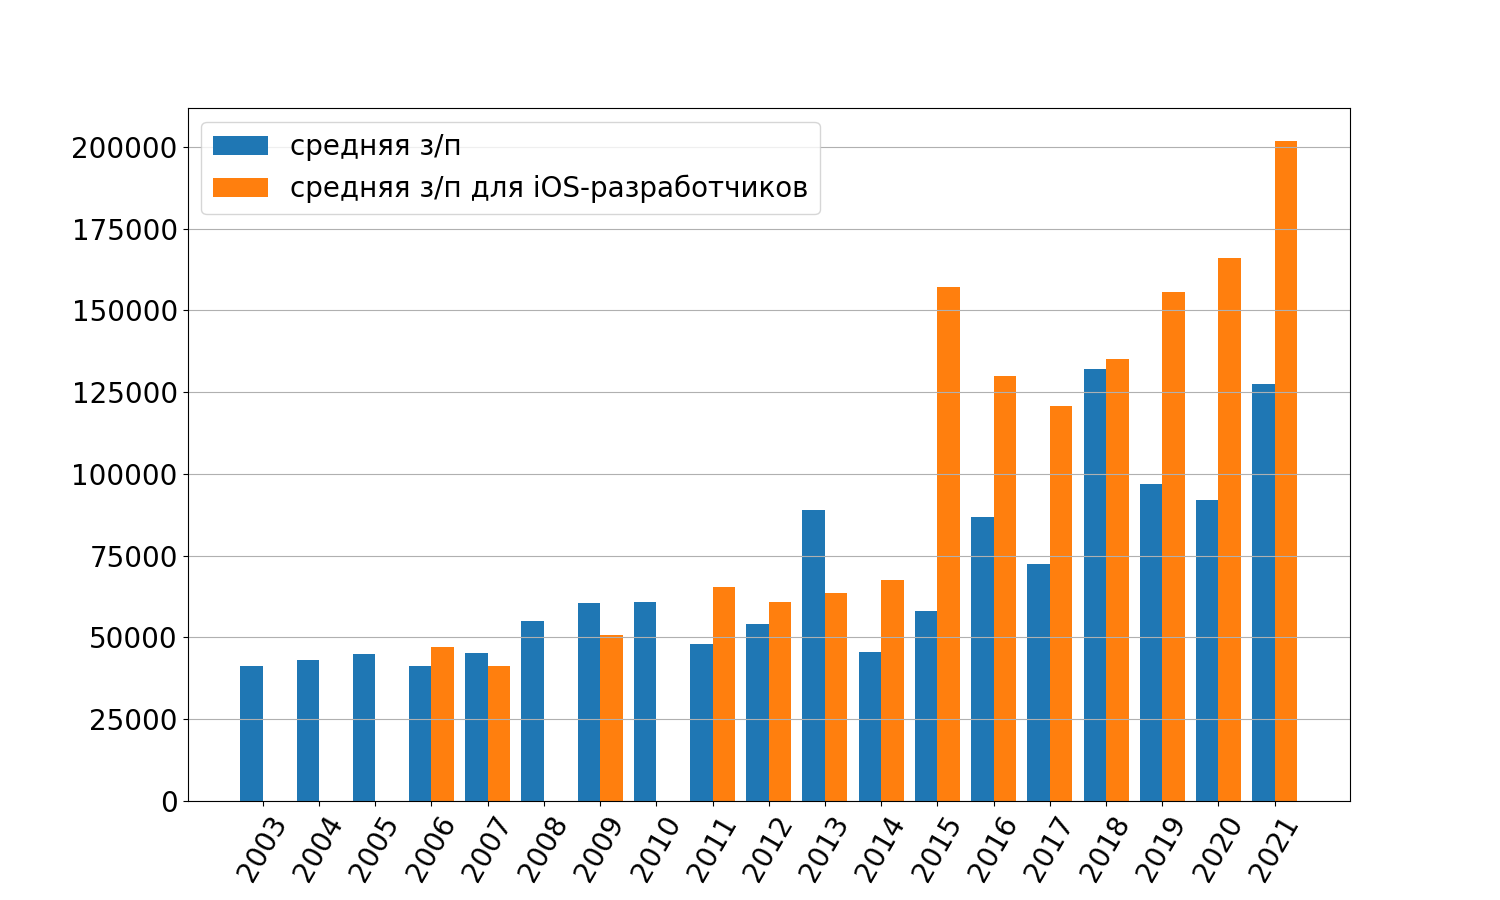
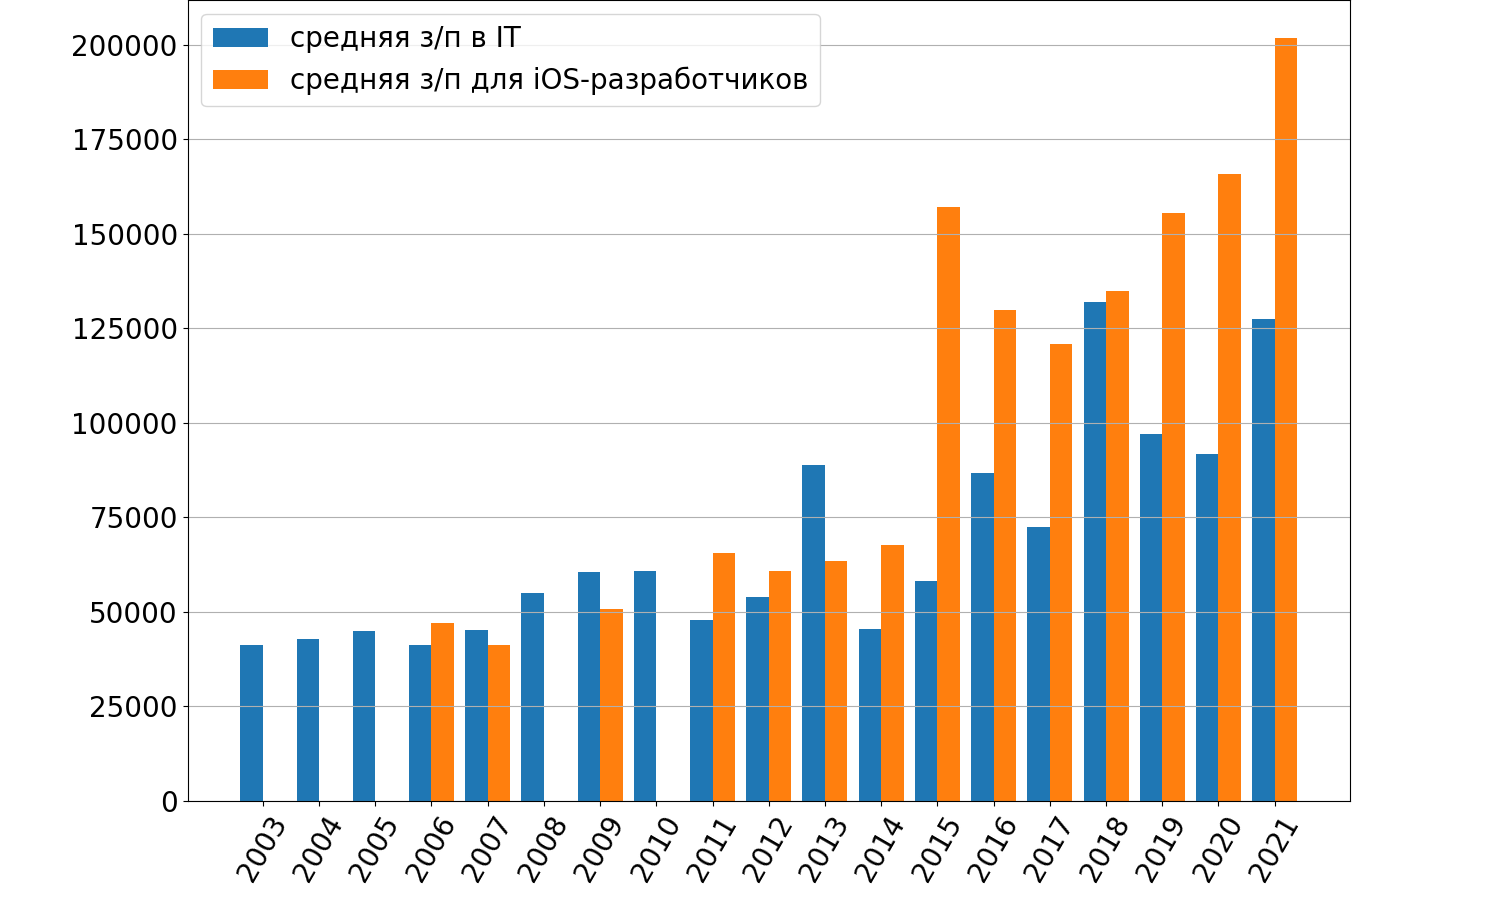
Skills statistics

diff --git a/templates/demand.html b/templates/demand.html
@@ -1,15 +1,69 @@
 {% extends 'base.html' %}
 
+{% load static %}
+
 {% block title %}
     Востребованность
 {% endblock %}
 
 {% block body %}
-    <div class="lead">
-        <h1>Востребованность</h1>
+    <div class="lead mb-4 pb-5 border-bottom">
+        <h1 class="mt-5 mb-4">Востребованность</h1>
         <p>
             Здесь собрана статистика вакансий по годам из HeadHunter,
             как в целом для IT-профессий, так и отдельно для iOS-разработчиков.
         </p>
     </div>
+
+    <div class="d-flex justify-content-center gap-2 mb-5">
+        <button class="btn btn-primary plots" style="width: 150px !important;">Графики</button>
+        <button class="btn btn-secondary tables" style="width: 150px !important;">Таблицы</button>
+    </div>
+
+    <div class="plots">
+        <ul class="list-group" style="margin: 0 !important; padding: 0 !important; list-style: none !important;">
+            <li class="list-item mb-5 pb-5">
+                <h2 class="mb-5 text-center">Зарплаты</h2>
+                <div class="row mb-4">
+                    <div class="w-50 d-flex flex-column justify-content-between text-center">
+                        <h3 class="mb-4">Уровень зарплаты по годам</h3>
+                        <img src="{% static "plots/salary_by_year.png" %}" alt="Зарплата по годам" class="w-100">
+                    </div>
+                    <div class="w-50 d-flex flex-column justify-content-between text-center">
+                        <h3 class="mb-4">Уровень зарплаты по годам для iOS-разработчика</h3>
+                        <img src="{% static "plots/selected_salary_by_year.png" %}"
+                             alt="Зарплата по годам для iOS-разработчика" class="w-100">
+                    </div>
+                </div>
+                <div class="row d-flex flex-column align-items-center justify-content-between text-center">
+                    <h3 class="mb-4">Сравнение зарплат</h3>
+                    <img src="{% static "plots/diff_salary.png" %}" alt="Сравнение" class="w-75 mr-auto ml-auto">
+                </div>
+            </li>
+            <li class="list-item mb-5">
+                <h2 class="mb-5 text-center">Количество вакансий</h2>
+                <div class="row mb-4">
+                    <div class="w-50 d-flex flex-column justify-content-between text-center">
+                        <h3 class="mb-4">Количество вакансий по годам</h3>
+                        <img src="{% static "plots/count_by_year.png" %}" alt="Количество вакансий по годам" class="w-100">
+                    </div>
+                    <div class="w-50 d-flex flex-column justify-content-between text-center">
+                        <h3 class="mb-4">Количество вакансий по годам для iOS-разработчика</h3>
+                        <img src="{% static "plots/selected_count_by_year.png" %}"
+                             alt="Количество вакансий по годам для iOS-разработчика" class="w-100">
+                    </div>
+                </div>
+                <div class="row d-flex flex-column justify-content-between align-items-center text-center">
+                    <h3 class="mb-4">Сравнение количества</h3>
+                    <img src="{% static "plots/diff_count.png" %}" alt="Сравнение" class="w-75">
+                </div>
+            </li>
+        </ul>
+    </div>
+
+    <div class="tables">
+
+    </div>
+
+    <script src="{% static "scripts/demand.js" %}"></script>
 {% endblock %}

diff --git a/main_app/static/scripts/demand.js b/main_app/static/scripts/demand.js
@@ -1,0 +1,30 @@
+let plots_btn = document.querySelector('.btn.plots');
+let tables_btn = document.querySelector('.btn.tables');
+let plots = document.querySelector('div.plots');
+let tables = document.querySelector('div.tables');
+
+plots_btn.onclick = function () {
+    if (!plots_btn.classList.contains('btn-primary')){
+        plots_btn.classList.add('btn-primary')
+        plots_btn.classList.remove('btn-secondary')
+
+        tables_btn.classList.remove('btn-primary');
+        tables_btn.classList.add('btn-secondary');
+
+        plots.classList.remove('d-none');
+        tables.classList.add('d-none');
+    }
+}
+
+tables_btn.onclick = function () {
+    if (!tables_btn.classList.contains('btn-primary')){
+        tables_btn.classList.add('btn-primary');
+        tables_btn.classList.remove('btn-secondary');
+
+        plots_btn.classList.remove('btn-primary')
+        plots_btn.classList.add('btn-secondary')
+
+        plots.classList.add('d-none');
+        tables.classList.remove('d-none');
+    }
+}

diff --git a/templates/base.html b/templates/base.html
@@ -18,7 +18,6 @@
         <a href="/" class="d-flex align-items-center text-dark text-decoration-none">
             <span class="fs-4">Mellonka company</span>
         </a>
-
         <nav class="d-inline-flex flex-wrap mt-2 mt-md-0 ms-md-auto">
             <a class="me-3 py-2 text-dark text-decoration-none" href="/">Главная</a>
             <a class="me-3 py-2 text-dark text-decoration-none" href="/geography">География</a>
@@ -34,7 +33,7 @@
 </div>
 <footer class="my-md-5 pt-md-4">
     <div class="border-top container">
-        <p class="mt-3 text-center text-muted">© 2023, Mellonka company</p>
+        <p class="mt-3 text-center text-muted">© 2023, <b>Mellonka company</b>, Шамшиев Эрланбек Батырбекович, РИ-210940</p>
     </div>
 </footer>
 </body>

diff --git a/main_app/statistics/statistics.py b/main_app/statistics/statistics.py
@@ -7,16 +7,23 @@ import tkinter
 def save_df_as_plot(df, path, x_key, y_key):
     plt.rc('font', size=20)
     fig = plt.figure()
-    fig.set_figheight(9)
-    fig.set_figwidth(9)
-    ax1 = fig.add_subplot(1, 1, 1)
-    ax1.grid(axis='y')
-    ax1.bar(df[x_key], df[y_key])
-    ax1.tick_params(axis='x', labelrotation=45)
+    plt.subplots_adjust(top=1)
+    fig.set_figheight(12)
+    fig.set_figwidth(12)
+    ax = fig.add_subplot(1, 1, 1)
+    ax.grid(axis='y')
+    ax.bar(df[x_key], df[y_key])
+    ax.tick_params(axis='x', labelrotation=45)
+
+    # увидел на каком то сайте просто. другого способа пока не нашёл
+    for label in ax.get_xticklabels():
+        if x_key != 'Year':
+            label.set_fontsize(12)
+
     fig.savefig(path)
 
 
-def save_plots(salary_by_year, selected_salary_by_year):
+def save_plots(bigger_df, smaller_df, general_column, column_bigger_df, column_smaller_df, path, legend=None):
     plt.rc('font', size=20)
     fig = plt.figure()
     fig.set_figheight(9)
@@ -24,18 +31,19 @@ def save_plots(salary_by_year, selected_salary_by_year):
     ax = fig.add_subplot(1, 1, 1)
 
     d = {k: v for k, v in
-         zip(selected_salary_by_year['Year'].to_list(), selected_salary_by_year['avg_salary_for_selected'].to_list())}
-    y2 = [d[k] if k in d else 0 for k in salary_by_year['Year'].to_list()]
+         zip(smaller_df[general_column].to_list(), smaller_df[column_smaller_df].to_list())}
+    y2 = [d[k] if k in d else 0 for k in bigger_df[general_column].to_list()]
 
-    ax.bar([i - 0.2 for i in list(map(int, salary_by_year['Year'].to_list()))], salary_by_year['avg_salary'], width=0.4)
-    ax.bar([i + 0.2 for i in list(map(int, salary_by_year['Year'].to_list()))], y2, width=0.4)
-    ax.set_xticks(list(map(int, salary_by_year['Year'].to_list())))
+    ax.bar([i - 0.2 for i in list(map(int, bigger_df[general_column].to_list()))], bigger_df[column_bigger_df], width=0.4)
+    ax.bar([i + 0.2 for i in list(map(int, bigger_df[general_column].to_list()))], y2, width=0.4)
+    ax.set_xticks(list(map(int, bigger_df[general_column].to_list())))
     ax.tick_params(axis='x', labelrotation=60)
-    ax.legend(['средняя з/п', 'средняя з/п для iOS-разработчиков'])
+    ax.legend(legend)
     ax.grid(axis='y')
-    fig.savefig('../static/plots/diff_salary.png')
+    plt.subplots_adjust(top=1)
+    fig.savefig(path)
 
-vacancy_name = input()
+vacancy_name = 'ios'#input()
 matplotlib.use('TkAgg')
 db = sqlite3.connect('statistics.db')
 c = db.cursor()
@@ -71,4 +79,21 @@ fraction_by_area = pd.read_sql(f"SELECT area_name, ROUND(COUNT(salary) / {len_ta
 fraction_by_area.to_csv('../static/tables/fraction_by_area.csv', encoding='utf-8-sig', index=False)
 save_df_as_plot(fraction_by_area, '../static/plots/fraction_by_area.png', 'area_name', 'fraction_vacancies')
 
-save_plots(salary_by_year, selected_salary_by_year)
+save_plots(salary_by_year, selected_salary_by_year, 'Year', 'avg_salary', 'avg_salary_for_selected', '../static/plots/diff_salary.png', ['средняя з/п в IT', 'средняя з/п для iOS-разработчиков'])
+save_plots(count_by_year, selected_count_by_year, 'Year', 'count_vacancies', 'count_vacancies_for_selected', '../static/plots/diff_count.png', ['количество IT вакансий', 'количество вакансий iOS-разработчика'])
+
+command = f'''
+WITH split(word, str) AS (
+    SELECT '', key_skills||'\n' FROM vacancies WHERE LOWER(name) LIKE '%{vacancy_name.lower()}%'
+    UNION ALL 
+    SELECT
+    substr(str, 0, instr(str, '\n')),
+    substr(str, instr(str, '\n')+1)
+    FROM split WHERE str!=''
+) SELECT word as skill, COUNT(LOWER(word)) as count_skill FROM split WHERE word!='' GROUP BY LOWER(word) ORDER BY COUNT(LOWER(word)) DESC LIMIT 10;
+'''
+
+skills = pd.read_sql(command, db)
+skills.index += 1
+skills.to_csv('../static/tables/skills.csv')
+save_df_as_plot(skills, '../static/plots/skills.png', 'skill', 'count_skill')
